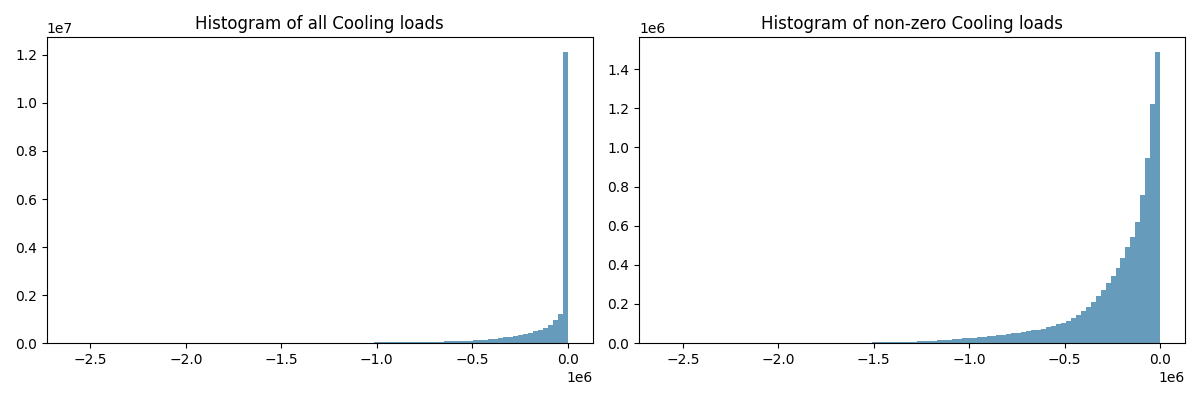
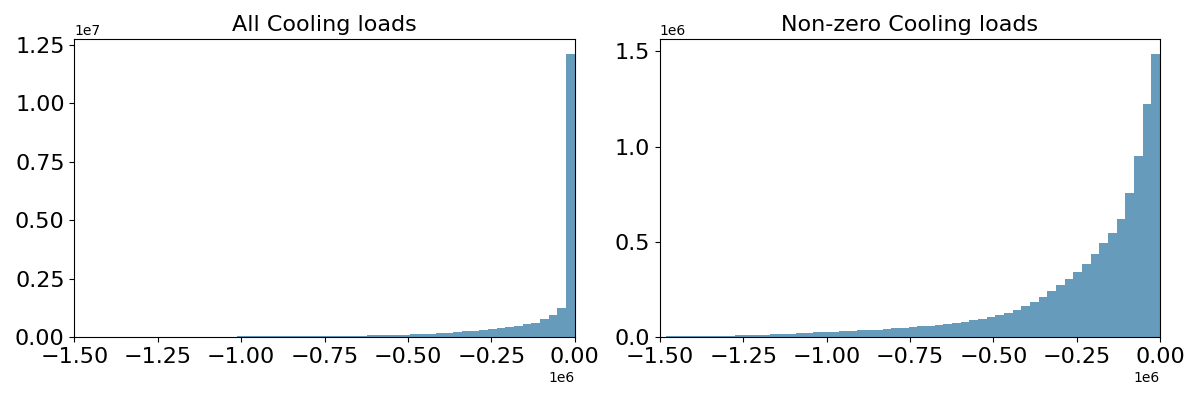
Update model parameters and plot sizes

diff --git a/src/model/rnn.py b/src/model/rnn.py
@@ -1,4 +1,5 @@
 from typing import Any
+import lightning as L
 import torch
 import torch.nn as nn
 from torch.optim.lr_scheduler import SequentialLR, LinearLR, CosineAnnealingLR, StepLR
@@ -6,6 +7,119 @@ from model.base import RNNNet, PermuteSeq
 from configs.configuration import QUANTILES
 from utils.criterions import QuantileLoss
 import pdb
+
+
+class LSTMSeq(L.LightningModule):
+    def __init__(self, input_dim: int, input_seq_len: int, output_seq_len: int,
+                 encode_layers: int, decode_layers: int,
+                 hidden_dim: int, dropout: float, scaling) -> None:
+        super().__init__()
+        self.input_dim = input_dim
+        self.input_seq_len = input_seq_len
+        self.output_seq_len = output_seq_len
+        self.encode_layers = encode_layers
+        self.decode_layers = decode_layers
+        self.hidden_dim = hidden_dim
+        self.dropout = dropout
+        self.scaling = scaling
+        self.save_hyperparameters(ignore=['scaling'])
+
+        self.encoder = nn.LSTM(input_size=self.input_dim,
+                               hidden_size=self.hidden_dim,
+                               num_layers=self.encode_layers,
+                               dropout=self.dropout,
+                               batch_first=True)
+        self.heat_lstm_decoder = nn.LSTM(input_size=self.hidden_dim,
+                                         hidden_size=self.hidden_dim,
+                                         num_layers=self.decode_layers,
+                                         dropout=self.dropout,
+                                         batch_first=True)
+        self.cool_lstm_decoder = nn.LSTM(input_size=self.hidden_dim,
+                                         hidden_size=self.hidden_dim,
+                                         num_layers=self.decode_layers,
+                                         dropout=self.dropout,
+                                         batch_first=True)
+        self.heat_decoder = nn.Sequential(
+            nn.Linear(hidden_dim, hidden_dim//2),
+            PermuteSeq(),
+            nn.BatchNorm1d(hidden_dim//2),
+            PermuteSeq(),
+            nn.ReLU(),
+            nn.Linear(hidden_dim//2, 1))
+        self.cool_decoder = nn.Sequential(
+            nn.Linear(hidden_dim, hidden_dim//2),
+            PermuteSeq(),
+            nn.BatchNorm1d(hidden_dim//2),
+            PermuteSeq(),
+            nn.ReLU(),
+            nn.Linear(hidden_dim//2, 1))
+    
+    def forward(self, x):
+        z, encode_hidden = self.encoder(x)
+        heat_hat_seq, _ = self.heat_lstm_decoder(z, encode_hidden)
+        cool_hat_seq, _ = self.cool_lstm_decoder(z, encode_hidden)
+        heat_hat = self.heat_decoder(heat_hat_seq)
+        cool_hat = self.cool_decoder(cool_hat_seq)
+        return heat_hat, cool_hat
+    
+    def split_reshape(self, batch):
+        x, y = batch
+        x = x.view(x.size(0), self.input_ts, -1).float()
+        y = y.view(y.size(0), self.output_ts, -1).float()
+        return x, y
+    
+    def criterion(self, heat_hat, cool_hat, y):
+        heat_loss = nn.functional.mse_loss(heat_hat, y[:, :, 0].unsqueeze(2))
+        cool_loss = nn.functional.mse_loss(cool_hat, y[:, :, 1].unsqueeze(2))
+        return heat_loss, cool_loss
+    
+
+    def training_step(self, batch, batch_idx):
+        x, y = self.split_reshape(batch)
+
+        heat_hat, cool_hat = self(x)
+
+        heat_loss, cool_loss = self.criterion(heat_hat, cool_hat, y)
+        loss = heat_loss + cool_loss
+        self.log_dict({"train/heat_loss": heat_loss, "train/cool_loss": cool_loss,
+                       "train/total_loss": loss, "global_step": self.global_step})
+        return loss
+    
+    def validation_step(self, batch, batch_idx):
+        x, y = self.split_reshape(batch)
+
+        heat_hat, cool_hat = self(x)
+
+        heat_loss, cool_loss = self.criterion(heat_hat, cool_hat, y)
+        loss = heat_loss + cool_loss
+        self.log_dict({"val/heat_loss": heat_loss,
+                      "val/cool_loss": cool_loss, "val/total_loss": loss})
+        return loss
+
+    def test_step(self, batch, batch_idx):
+        x, y = self.split_reshape(batch)
+
+        heat_hat, cool_hat = self(x)
+
+        heat_loss, cool_loss = self.criterion(heat_hat, cool_hat, y)
+        loss = heat_loss + cool_loss
+        self.log_dict({"test/heat_loss": heat_loss,
+                      "test/cool_loss": cool_loss, "test/total_loss": loss})
+        return loss
+
+    def predict(self, x):
+        heat_hat, cool_hat = self.forward(x)
+        heat_hat = heat_hat * self.scaling.H_STD + self.scaling.H_MEAN
+        cool_hat = cool_hat * self.scaling.C_STD + self.scaling.C_MEAN
+        return heat_hat, cool_hat
+
+    def predict_step(self, batch: Any, batch_idx: int, dataloader_idx: int = 0) -> Any:
+
+        x, y = self.split_reshape(batch)
+        # inverse transform the load
+        y[:, :, 0] = y[:, :, 0] * self.h_std + self.h_mean
+        y[:, :, 1] = y[:, :, 1] * self.c_std + self.c_mean
+        return self.predict(x), y
 
 
 class RNNSeqNet(RNNNet):
@@ -88,8 +202,10 @@ class RNNSeqNetV2(RNNSeqNet):
         super().__init__(input_dim, input_ts, output_ts,
                          hidden_dim, dropout, scaling)
         self.scaling = scaling
-        self.h_zero = torch.tensor(-scaling.H_MEAN / scaling.H_STD).to(torch.float16)
-        self.c_zero = torch.tensor(-scaling.C_MEAN / scaling.C_STD).to(torch.float16)
+        self.h_zero = torch.tensor(-scaling.H_MEAN /
+                                   scaling.H_STD).to(torch.float16)
+        self.c_zero = torch.tensor(-scaling.C_MEAN /
+                                   scaling.C_STD).to(torch.float16)
         self.h_trigger_ratio = scaling.H_TRIGGER_RATIO
         self.c_trigger_ratio = scaling.C_TRIGGER_RATIO
         self.quantiles = QUANTILES
@@ -140,7 +256,8 @@ class RNNSeqNetV2(RNNSeqNet):
         heat_loss, cool_loss, heat_prob_loss, cool_prob_loss = self.criterion(
             heat_hat, cool_hat, heat_prob, cool_prob, y)
         loss = heat_loss + cool_loss + heat_prob_loss + cool_prob_loss
-        self.log_cls_result(y, self.sigmoid(heat_prob), self.sigmoid(cool_prob))
+        self.log_cls_result(y, self.sigmoid(heat_prob),
+                            self.sigmoid(cool_prob))
 
         self.log_dict({"train/heat_loss": heat_loss, "train/cool_loss": cool_loss,
                        "train/heat_prob_loss": heat_prob_loss, "train/cool_prob_loss": cool_prob_loss,
@@ -158,7 +275,8 @@ class RNNSeqNetV2(RNNSeqNet):
         heat_loss = 0 if torch.isnan(heat_loss) else heat_loss
         cool_loss = 0 if torch.isnan(cool_loss) else cool_loss
         loss = heat_prob_loss + cool_prob_loss + heat_loss + cool_loss
-        self.record_cls_output(y, self.sigmoid(heat_prob), self.sigmoid(cool_prob))
+        self.record_cls_output(y, self.sigmoid(
+            heat_prob), self.sigmoid(cool_prob))
 
         self.log_dict({"val/heat_loss": heat_loss, "val/cool_loss": cool_loss,
                        "val/heat_prob_loss": heat_prob_loss, "val/cool_prob_loss": cool_prob_loss,

diff --git a/src/09_vis_actual_load.py b/src/09_vis_actual_load.py
@@ -14,42 +14,49 @@ input_seq_len = 24
 
 cool_dict = {'RNN': '#513b56', 'Transformer': '#f4a259', 'TFT': '#25a18e'} # '#F4D35E', '#EE964B', '#F95738'
 def plot_heat_cool_seq_batch(pred_dict, start_bi=0):
-    plot_true = False
-    fig, axs = plt.subplots(2, 1, figsize=(20, 6))
-    for mode in pred_dict:
-        predictions = pred_dict[mode]
-        target_len = 1536
-        heat_true = torch.zeros(target_len)
-        heat_pred = torch.zeros(target_len)
-        cool_true = torch.zeros(target_len)
-        cool_pred = torch.zeros(target_len)
-        i = 0
-        bi = start_bi
-        while target_len > i:
-            batch_len = predictions[bi][1][:,:, 0].nelement()
-            if (target_len-i) >= batch_len:
-                heat_true[i:i+batch_len] = predictions[bi][1][:, :, 0].flatten()
-                heat_pred[i:i+batch_len] = predictions[bi][0][0].flatten()
-                cool_true[i:i+batch_len] = predictions[bi][1][:, :, 1].flatten()
-                cool_pred[i:i+batch_len] = predictions[bi][0][1].flatten()
-            else:
-                heat_true[i:] = predictions[bi][1][:, :, 0].flatten()[:(target_len-i)]
-                heat_pred[i:] = predictions[bi][0][0].flatten()[:(target_len-i)]
-                cool_true[i:] = predictions[bi][1][:, :, 1].flatten()[:(target_len-i)]
-                cool_pred[i:] = predictions[bi][0][1].flatten()[:(target_len-i)]
-            i += batch_len
-            bi += 1
-        if plot_true == False:
-            axs[0].plot(heat_true.cpu(), color='red', label='CitySim', lw=3)
-            axs[1].plot(cool_true.cpu(), color='blue', label='CitySim', lw=3)
-            plot_true = True
-        axs[0].plot(heat_pred.cpu(), color=cool_dict[mode], label=f'{mode}', ls='-.')
-        axs[1].plot(cool_pred.cpu(), color=cool_dict[mode], label=f'{mode}', ls='-.')
-    axs[0].set_title('Heating loads')
-    axs[1].set_title('Cooling loads')
-    axs[0].legend()
-    axs[1].legend()
-    plt.show()
+    fig = plt.figure(constrained_layout=True, figsize=(20, 8))
+    figs = fig.subfigures(2, 1)
+    for row, subfig in enumerate(figs):
+        plot_true = False
+        # set global font size larger
+        plt.rcParams.update({'font.size': 24})
+        subfig.suptitle(['Heating loads', 'Cooling loads'][row])
+
+        target_len = 1152
+
+        axs = subfig.subplots(nrows=1, ncols=2, gridspec_kw={'width_ratios': [4, 1]}, sharey=True)
+        true_c = ['red', 'blue'][row]
+        long_si = [450, 1050]
+        short_si = 735
+        for mode in pred_dict:
+            predictions = pred_dict[mode]
+            heat_true = torch.zeros(target_len)
+            heat_pred = torch.zeros(target_len)
+            i = 0
+            bi = start_bi
+            while target_len > i:
+                batch_len = predictions[bi][1][:,:, 0].nelement()
+                if (target_len-i) >= batch_len:
+                    heat_true[i:i+batch_len] = predictions[bi][1][:, :, row].flatten()
+                    heat_pred[i:i+batch_len] = predictions[bi][0][row].flatten()
+                else:
+                    heat_true[i:] = predictions[bi][1][:, :, row].flatten()[:(target_len-i)]
+                    heat_pred[i:] = predictions[bi][0][row].flatten()[:(target_len-i)]
+                i += batch_len
+                bi += 1
+            if plot_true == False:
+                axs[0].plot(range(long_si[0], long_si[1]), heat_true[long_si[0]:long_si[1]].cpu(), color=true_c, label='CitySim', lw=2)
+                axs[1].plot(range(short_si, short_si+72), heat_true[short_si:short_si+72].cpu(), color=true_c, label='CitySim', lw=2)
+
+                plot_true = True
+            axs[0].plot(range(long_si[0], long_si[1]), heat_pred[long_si[0]:long_si[1]].cpu(), color=cool_dict[mode], label=f'{mode}', ls='-.')
+            axs[1].plot(range(short_si, short_si+72), heat_pred[short_si:short_si+72].cpu(), color=cool_dict[mode], label=f'{mode}', ls='-.')
+            # limit x range to 0 and length of target
+            axs[0].set_xlim(long_si[0], long_si[1])
+            axs[1].set_xlim(short_si, short_si+72)
+        # legend with smaller font size
+        axs[0].legend(prop={'size': 18})
+    plt.savefig('figs/demonstration_overall.png')
 
 
 def visual_load_differences():

diff --git a/src/08_calculate_global_values.py b/src/08_calculate_global_values.py
@@ -23,17 +23,27 @@ def load_historgram(df, mode='cool'):
     if mode == 'cool':
         type_str = 'Cooling'
         c = '669bbc'
+        xran = (-1.5e+6, 0)
     else:
         type_str = 'Heating'
         c = '780000' 
+        xran = (0, 1.5e+6)
     fig, axs = plt.subplots(1, 2, figsize=(12, 4))
     values = df.values.flatten()
     axs[0].hist(values, bins=100, color='#'+c)
-    axs[0].set_title(f'Histogram of all {type_str} loads')
+    axs[0].set_title(f'All {type_str} loads')
     nonzero = values[(values != 0) & (~np.isnan(values))]
     print(f'Non-zero {type_str} loads: {nonzero.size}')
     axs[1].hist(nonzero, bins=100, color='#'+c)
-    axs[1].set_title(f'Histogram of non-zero {type_str} loads')
+    axs[1].set_title(f'Non-zero {type_str} loads')
+    # set larger font size
+    for ax in axs:
+        ax.tick_params(axis='both', which='major', labelsize=16)
+        # larger title size
+        ax.title.set_size(16)
+        # set x stop at 1.5e+6
+        ax.set_xlim(xran)
+
     plt.tight_layout()
     plt.savefig(f'figs/{type_str}_hist.png')
     plt.close()

diff --git a/src/12_multi_urban_train.py b/src/12_multi_urban_train.py
@@ -40,7 +40,7 @@ def setting_logger():
 
 def train(config):
     logger = TensorBoardLogger(
-        '', name='us_city', version='rnn_v2_hidden64_dropout8e-1')
+        '', name='us_city', version='rnn_v2_hidden128_dropout8e-1')
 
     save_best, save_last = setting_logger()
     # train the model
@@ -55,7 +55,7 @@ def train(config):
 
     # init model
     model = RNNSeqNetV2(input_dim=input_dim, input_ts=input_seq_len,
-                        output_ts=input_seq_len, hidden_dim=64, dropout=0.8, scaling=config.scaling)
+                        output_ts=input_seq_len, hidden_dim=128, dropout=0.8, scaling=config.scaling)
 
     # train the model
     trainer.fit(model, datamodule=dm)
